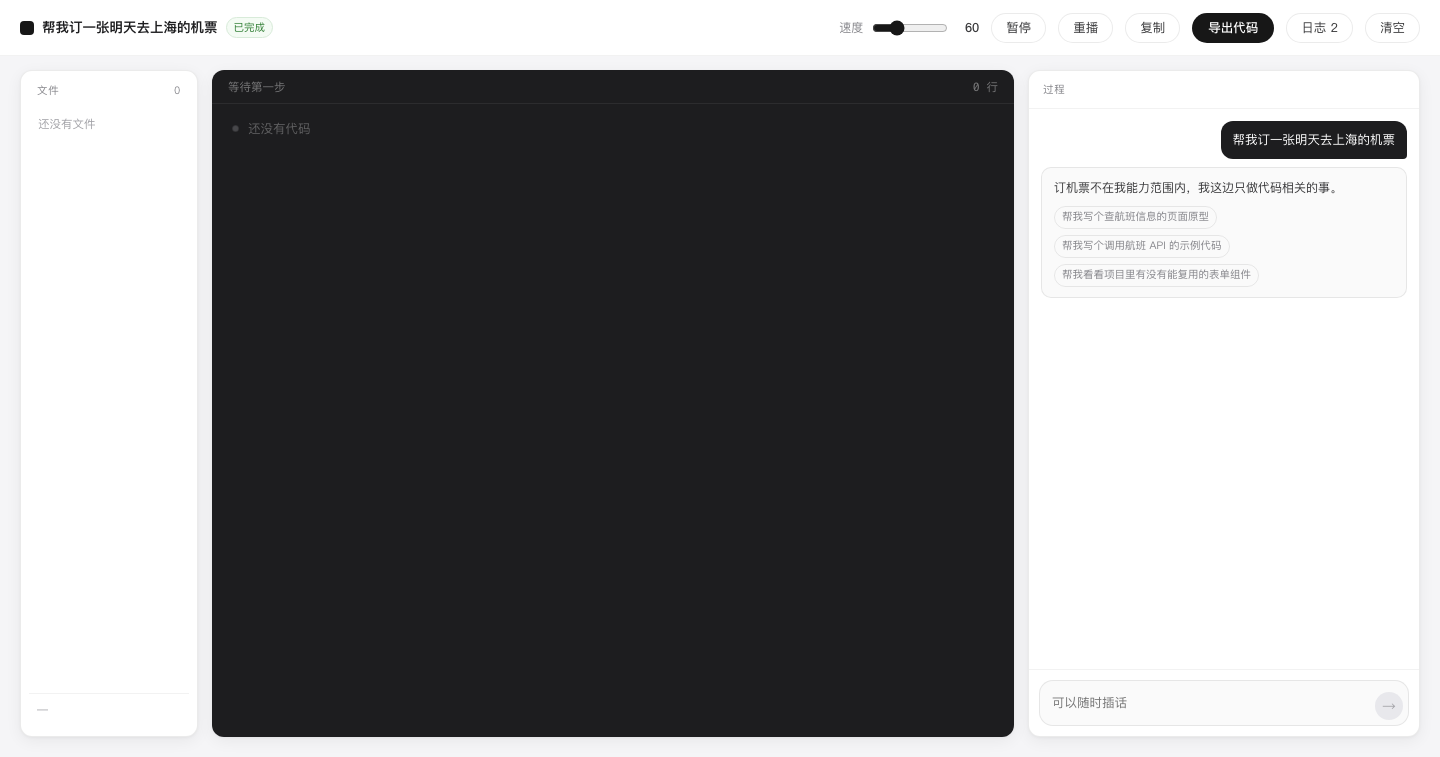
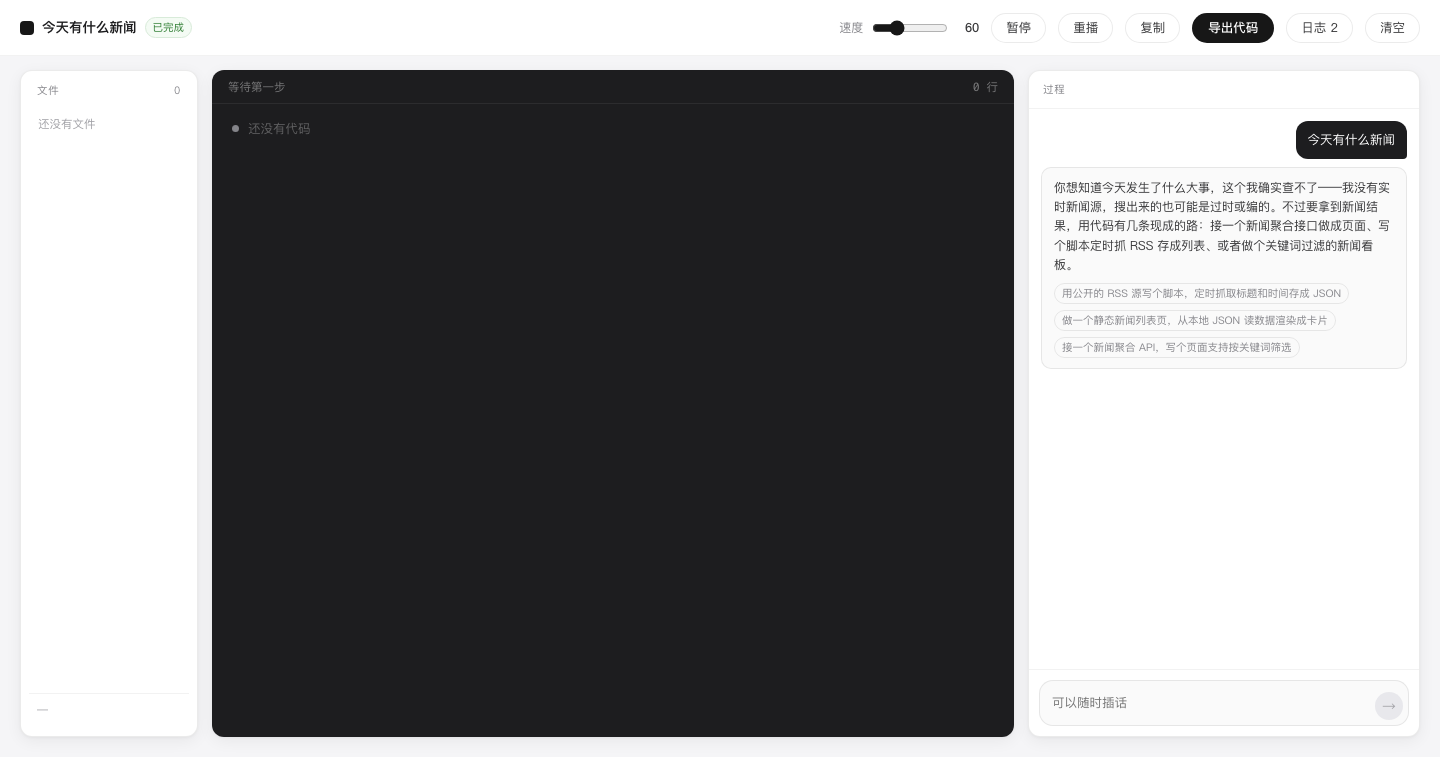
feat: 拒绝改成"把需求翻译成能做的事"，并让替代选项可点
之前拒绝是"新闻我不查，这里只做代码相关的事"——冷，而且没接住对方的目的。

现在 prompt 里写的是一套方法，不是话术：
1. 先说中对方的真实目的
2. 只否定做不到的那一小块，一句话
3. 立刻给 1～3 个**用代码达到同一目的**的做法，具体到能开工
4. 不道歉三遍、不说教

实测「今天有什么新闻」：
"你想知道今天发生了什么大事，这个我确实查不了——我没有实时新闻源……
不过要拿到新闻结果，用代码有几条路：接新闻聚合接口做页面、写脚本定时抓 RSS、
或者做每日摘要小站。"

另外：右侧时间线里的替代选项之前是纯文字（点了没反应），现在是按钮，
点一下就直接按那条开工（已验证：点了之后时间线继续往下走）。

Changed region(s): [[0.7188, 0.2431, 0.9688, 0.4861], [0.8438, 0.1519, 0.9688, 0.2127], [0.0312, 0.0304, 0.1875, 0.0608]]

diff --git a/web/src/App.tsx b/web/src/App.tsx
@@ -860,6 +860,7 @@ export default function App() {
                 key={item.id}
                 item={item}
                 live={item.ev.action === "ask" && pending === item.ev.questions}
+                onIdea={(text) => void send(text)}
               />
             ))}
 
@@ -987,7 +988,15 @@ function countLines(files: Record<string, string>) {
   return Object.values(files).reduce((n, body) => n + body.split("\n").length - 1, 0);
 }
 
-function TimelineItem({ item, live }: { item: Item; live?: boolean }) {
+function TimelineItem({
+  item,
+  live,
+  onIdea,
+}: {
+  item: Item;
+  live?: boolean;
+  onIdea?: (text: string) => void;
+}) {
   const ev = item.ev;
 
   if (ev.action === "user") {
@@ -1112,7 +1121,14 @@ function TimelineItem({ item, live }: { item: Item; live?: boolean }) {
         {ev.suggestions.length > 0 && (
           <div className="decline-ideas">
             {ev.suggestions.map((idea) => (
-              <span key={idea} className="decline-idea">{idea}</span>
+              <button
+                key={idea}
+                className="decline-idea"
+                onClick={() => onIdea?.(idea)}
+                title="点一下就按这个开工"
+              >
+                {idea}
+              </button>
             ))}
           </div>
         )}

diff --git a/web/src/styles.css b/web/src/styles.css
@@ -1690,3 +1690,16 @@ button {
 .ask-done-q + .ask-done-q {
   margin-top: 6px;
 }
+
+/* 拒绝里的替代选项，点了就能开工 */
+.decline-idea {
+  text-align: left;
+  cursor: pointer;
+  transition: all 0.16s var(--ease);
+}
+
+.decline-idea:hover {
+  color: var(--ink);
+  border-color: var(--ink);
+  background: #fff;
+}

diff --git a/README.md b/README.md
@@ -88,21 +88,22 @@
 
 `ask` 现在只用于真有分岔路口的决策（技术栈、要不要后端、需要密钥）。
 
-## 超出范围就礼貌挡回去
+## 超出范围：不关门，把需求翻译成能做的事
 
-它只做代码相关的事。问「今天有什么新闻」，它不会去搜，也不会硬答：
+![挡回去](/Users/nujabes/projects/step-coding/docs/32-decline.png)
 
-![拒绝](docs/32-decline.png)
+拒绝是一个**方法**，不是一张话术模板：
 
-> 新闻不在我这儿的能力范围，我只处理代码和项目相关的事。
-> [给我讲讲这段报错是什么意思] [写一个登录页面] [Docker 镜像分层是怎么回事]
+1. **先说中对方的真实目的**（证明听懂了）——「你想知道今天发生了什么大事」
+2. **只否定做不到的那一小块**，一句话——「这个我确实查不了，我没有实时新闻源」
+3. **立刻给 1～3 个用代码能达到同一目的的做法**——「接新闻聚合接口做页面 /
+   写脚本定时抓 RSS / 做个每日摘要小站」
+4. 不道歉三遍、不说教
 
-拒绝是协议里的一个动作（`decline`），不是靠提示词"尽量别回答"：
+左边这些建议**可以直接点**，点了就按那条开工。
 
-- 先承认对方的需求合理，不显得嫌弃
-- 一句话说清范围
-- 立刻给 2～3 个**能直接点**的替代选项
-- 还没开始干活时留在首页，不把人拽进空工作区
+提示词里没有写死「新闻」「翻译」「英语」这些词，只有这个四步方法——
+所以换个领域也能推出来。
 
 ## 卡住就问，不猜
 
